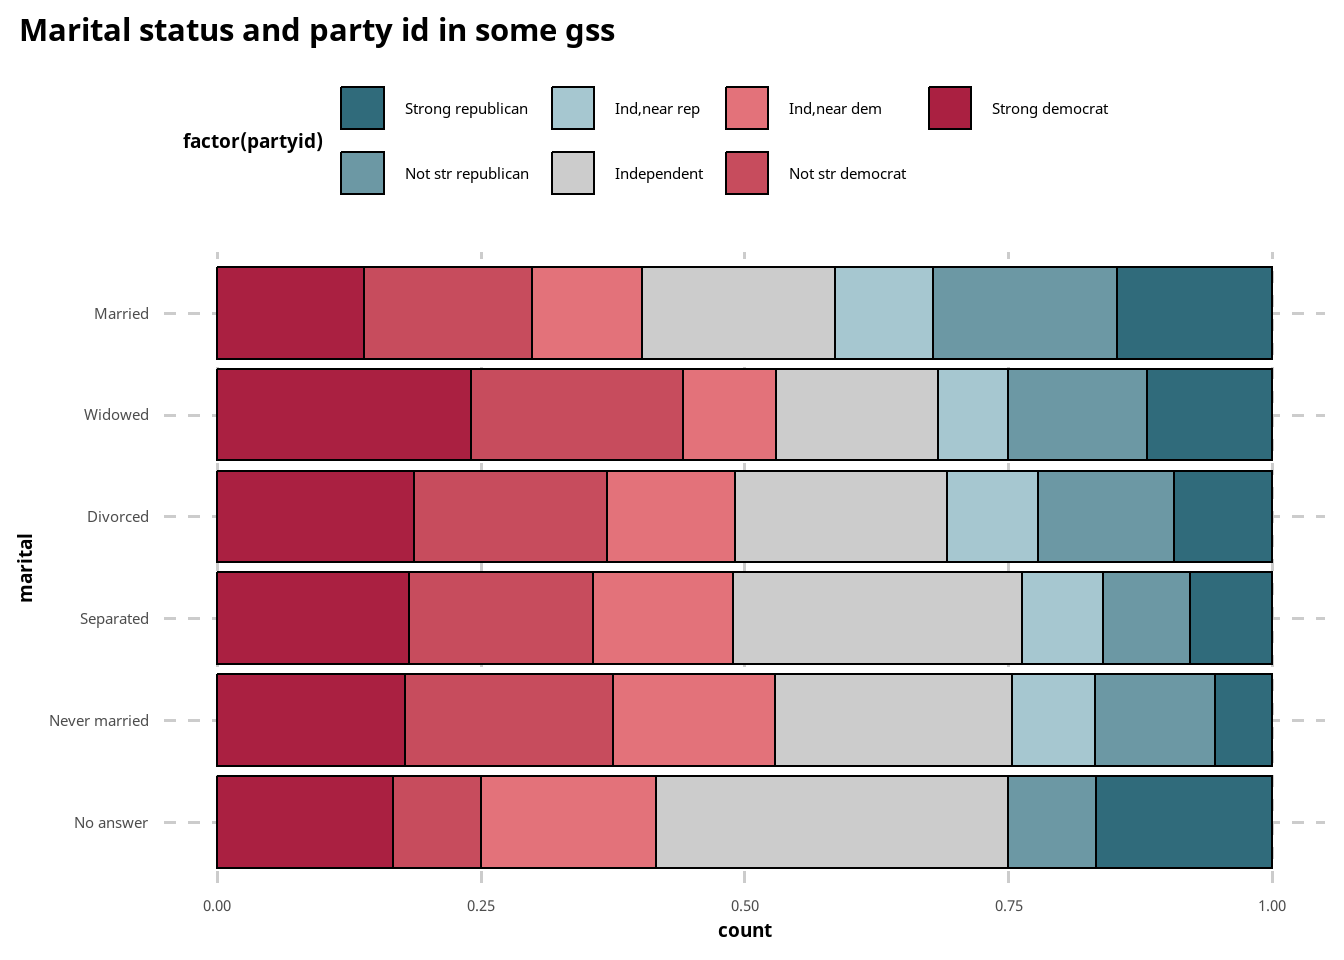
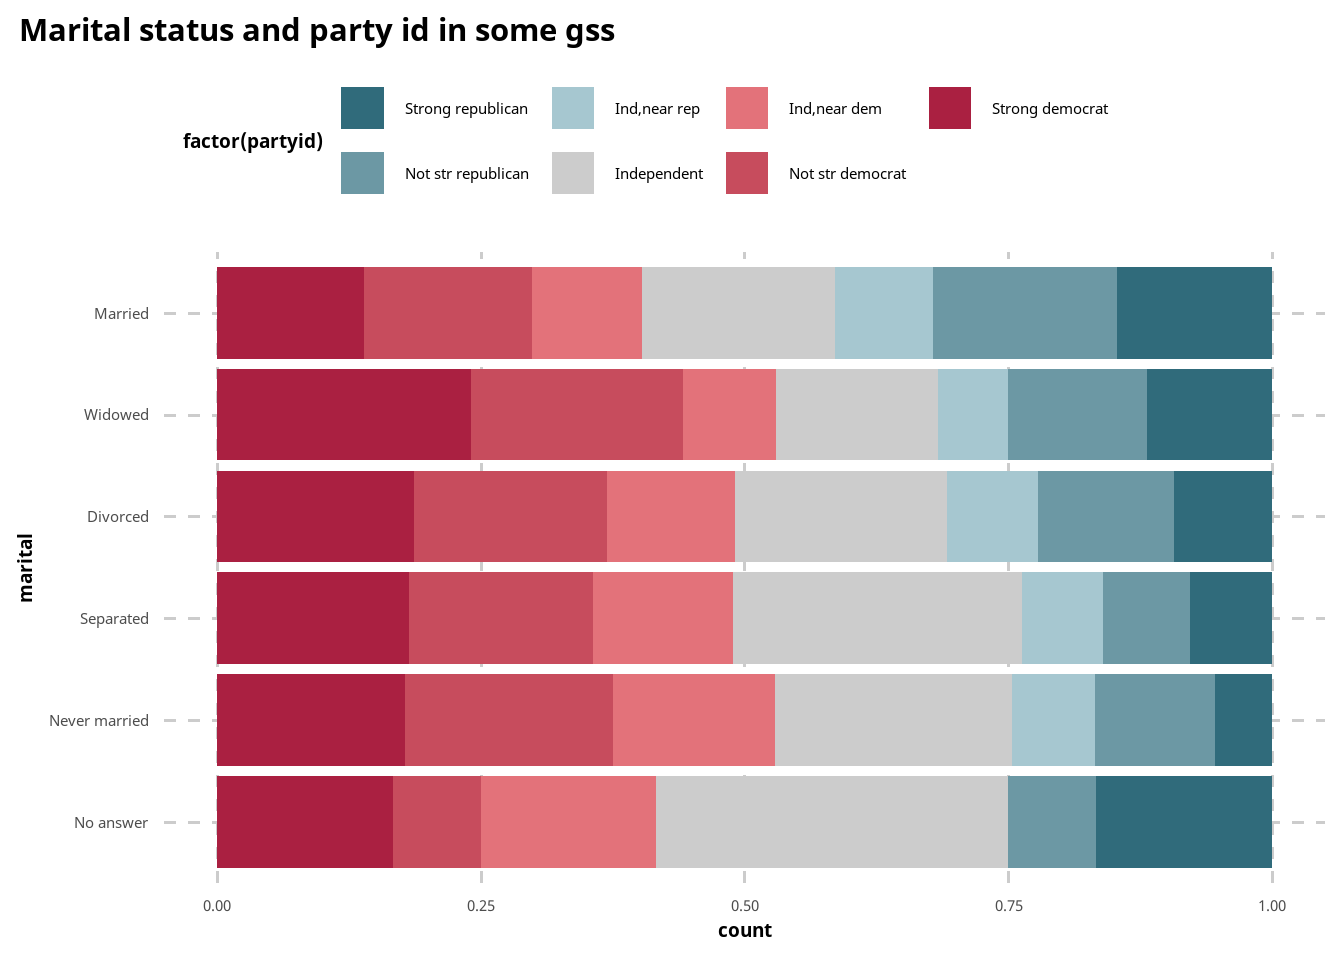
progress on theme

diff --git a/_book/theme.html b/_book/theme.html
@@ -238,29 +238,72 @@ pre > code.sourceCode > span > a:first-child::before { text-decoration: underlin
 <h2 data-number="4.1" class="anchored" data-anchor-id="the-function"><span class="header-section-number">4.1</span> The function</h2>
 <p>Put the function here and discuss it a bit.</p>
 <div class="cell">
-<div class="sourceCode cell-code" id="cb1"><pre class="sourceCode r code-with-copy"><code class="sourceCode r"><span id="cb1-1"><a href="#cb1-1" aria-hidden="true" tabindex="-1"></a>theme_cbu <span class="ot">&lt;-</span> <span class="cf">function</span>() {</span>
-<span id="cb1-2"><a href="#cb1-2" aria-hidden="true" tabindex="-1"></a>  <span class="fu">theme_minimal</span>(<span class="at">base_size =</span> <span class="dv">14</span>, <span class="at">base_family =</span> <span class="st">"Space Grotesk"</span>) <span class="sc">+</span></span>
-<span id="cb1-3"><a href="#cb1-3" aria-hidden="true" tabindex="-1"></a>    <span class="fu">theme</span>(<span class="at">panel.grid.minor =</span> <span class="fu">element_blank</span>(),</span>
-<span id="cb1-4"><a href="#cb1-4" aria-hidden="true" tabindex="-1"></a>          <span class="at">panel.grid.major =</span> <span class="fu">element_line</span>(<span class="at">linetype =</span> <span class="st">"dashed"</span>, <span class="at">color =</span> <span class="st">"grey80"</span>, <span class="at">linewidht =</span> .<span class="dv">5</span>),</span>
-<span id="cb1-5"><a href="#cb1-5" aria-hidden="true" tabindex="-1"></a>          <span class="at">plot.background =</span> <span class="fu">element_rect</span>(<span class="at">fill =</span> <span class="st">"white"</span>, <span class="at">color =</span> <span class="cn">NA</span>),</span>
-<span id="cb1-6"><a href="#cb1-6" aria-hidden="true" tabindex="-1"></a>          <span class="at">plot.title =</span> <span class="fu">element_text</span>(<span class="at">size =</span> <span class="fl">1.68</span><span class="sc">*</span><span class="dv">14</span>, <span class="at">face =</span> <span class="st">"bold"</span>, <span class="at">family =</span> <span class="st">"Space Grotesk"</span>),</span>
-<span id="cb1-7"><a href="#cb1-7" aria-hidden="true" tabindex="-1"></a>          <span class="at">plot.subtitle =</span> <span class="fu">element_text</span>(<span class="at">face =</span> <span class="st">"italic"</span>, <span class="at">family =</span> <span class="st">"Space Grotesk"</span>),</span>
-<span id="cb1-8"><a href="#cb1-8" aria-hidden="true" tabindex="-1"></a>          <span class="at">axis.title =</span> <span class="fu">element_text</span>(<span class="at">face =</span> <span class="st">"bold"</span>),</span>
-<span id="cb1-9"><a href="#cb1-9" aria-hidden="true" tabindex="-1"></a>          <span class="at">strip.text =</span> <span class="fu">element_text</span>(<span class="at">face =</span> <span class="st">"bold"</span>),</span>
-<span id="cb1-10"><a href="#cb1-10" aria-hidden="true" tabindex="-1"></a>          <span class="at">strip.background =</span> <span class="fu">element_rect</span>(<span class="at">fill =</span> <span class="cn">NA</span>, <span class="at">color =</span> <span class="cn">NA</span>),</span>
-<span id="cb1-11"><a href="#cb1-11" aria-hidden="true" tabindex="-1"></a>          <span class="at">plot.caption =</span> <span class="fu">element_text</span>(<span class="at">face =</span> <span class="st">"italic"</span>, <span class="at">family =</span> <span class="st">"Space Grotesk"</span>),</span>
-<span id="cb1-12"><a href="#cb1-12" aria-hidden="true" tabindex="-1"></a>          <span class="at">legend.title =</span> <span class="fu">element_text</span>(<span class="at">face =</span> <span class="st">"bold"</span>),</span>
-<span id="cb1-13"><a href="#cb1-13" aria-hidden="true" tabindex="-1"></a>          <span class="at">legend.position=</span><span class="st">'top'</span>, </span>
-<span id="cb1-14"><a href="#cb1-14" aria-hidden="true" tabindex="-1"></a>          <span class="at">legend.justification=</span><span class="st">'left'</span>,</span>
-<span id="cb1-15"><a href="#cb1-15" aria-hidden="true" tabindex="-1"></a>          <span class="at">legend.direction=</span><span class="st">'horizontal'</span>,</span>
-<span id="cb1-16"><a href="#cb1-16" aria-hidden="true" tabindex="-1"></a>          <span class="at">plot.title.position =</span> <span class="st">"plot"</span>)</span>
-<span id="cb1-17"><a href="#cb1-17" aria-hidden="true" tabindex="-1"></a>}</span></code><button title="Copy to Clipboard" class="code-copy-button"><i class="bi"></i></button></pre></div>
+<div class="sourceCode cell-code" id="cb1"><pre class="sourceCode r code-with-copy"><code class="sourceCode r"><span id="cb1-1"><a href="#cb1-1" aria-hidden="true" tabindex="-1"></a><span class="fu">library</span>(tidyverse)</span></code><button title="Copy to Clipboard" class="code-copy-button"><i class="bi"></i></button></pre></div>
+<div class="cell-output cell-output-stderr">
+<pre><code>── Attaching core tidyverse packages ──────────────────────── tidyverse 2.0.0 ──
+✔ dplyr     1.1.4     ✔ readr     2.1.5
+✔ forcats   1.0.0     ✔ stringr   1.5.1
+✔ ggplot2   3.5.1     ✔ tibble    3.2.1
+✔ lubridate 1.9.4     ✔ tidyr     1.3.1
+✔ purrr     1.0.4     
+── Conflicts ────────────────────────────────────────── tidyverse_conflicts() ──
+✖ dplyr::filter() masks stats::filter()
+✖ dplyr::lag()    masks stats::lag()
+ℹ Use the conflicted package (&lt;http://conflicted.r-lib.org/&gt;) to force all conflicts to become errors</code></pre>
+</div>
+<div class="sourceCode cell-code" id="cb3"><pre class="sourceCode r code-with-copy"><code class="sourceCode r"><span id="cb3-1"><a href="#cb3-1" aria-hidden="true" tabindex="-1"></a><span class="fu">library</span>(showtext)</span></code><button title="Copy to Clipboard" class="code-copy-button"><i class="bi"></i></button></pre></div>
+<div class="cell-output cell-output-stderr">
+<pre><code>Loading required package: sysfonts
+Loading required package: showtextdb</code></pre>
+</div>
+<div class="sourceCode cell-code" id="cb5"><pre class="sourceCode r code-with-copy"><code class="sourceCode r"><span id="cb5-1"><a href="#cb5-1" aria-hidden="true" tabindex="-1"></a><span class="fu">font_add_google</span>(<span class="st">"Open Sans"</span>)</span>
+<span id="cb5-2"><a href="#cb5-2" aria-hidden="true" tabindex="-1"></a><span class="fu">showtext_auto</span>()</span>
+<span id="cb5-3"><a href="#cb5-3" aria-hidden="true" tabindex="-1"></a>font <span class="ot">&lt;-</span> <span class="st">"Open Sans"</span></span>
+<span id="cb5-4"><a href="#cb5-4" aria-hidden="true" tabindex="-1"></a></span>
+<span id="cb5-5"><a href="#cb5-5" aria-hidden="true" tabindex="-1"></a>theme_cbu <span class="ot">&lt;-</span> <span class="cf">function</span>() {</span>
+<span id="cb5-6"><a href="#cb5-6" aria-hidden="true" tabindex="-1"></a>  <span class="fu">theme_minimal</span>(<span class="at">base_size =</span> <span class="dv">14</span>, <span class="at">base_family =</span> <span class="st">"Open Sans"</span>) <span class="sc">+</span></span>
+<span id="cb5-7"><a href="#cb5-7" aria-hidden="true" tabindex="-1"></a>    <span class="fu">theme</span>(<span class="at">panel.grid.minor =</span> <span class="fu">element_blank</span>(),</span>
+<span id="cb5-8"><a href="#cb5-8" aria-hidden="true" tabindex="-1"></a>          <span class="at">panel.grid.major =</span> <span class="fu">element_line</span>(<span class="at">linetype =</span> <span class="st">"dashed"</span>, <span class="at">color =</span> <span class="st">"grey80"</span>, <span class="at">linewidth =</span> .<span class="dv">5</span>),</span>
+<span id="cb5-9"><a href="#cb5-9" aria-hidden="true" tabindex="-1"></a>          <span class="at">plot.background =</span> <span class="fu">element_rect</span>(<span class="at">fill =</span> <span class="st">"white"</span>, <span class="at">color =</span> <span class="cn">NA</span>),</span>
+<span id="cb5-10"><a href="#cb5-10" aria-hidden="true" tabindex="-1"></a>          <span class="at">plot.title =</span> <span class="fu">element_text</span>(<span class="at">size =</span> <span class="fl">1.68</span><span class="sc">*</span><span class="dv">14</span>, <span class="at">face =</span> <span class="st">"bold"</span>, <span class="at">family =</span> <span class="st">"Space Grotesk"</span>),</span>
+<span id="cb5-11"><a href="#cb5-11" aria-hidden="true" tabindex="-1"></a>          <span class="at">plot.subtitle =</span> <span class="fu">element_text</span>(<span class="at">face =</span> <span class="st">"italic"</span>, <span class="at">family =</span> <span class="st">"Space Grotesk"</span>),</span>
+<span id="cb5-12"><a href="#cb5-12" aria-hidden="true" tabindex="-1"></a>          <span class="at">axis.title =</span> <span class="fu">element_text</span>(<span class="at">face =</span> <span class="st">"bold"</span>),</span>
+<span id="cb5-13"><a href="#cb5-13" aria-hidden="true" tabindex="-1"></a>          <span class="at">strip.text =</span> <span class="fu">element_text</span>(<span class="at">face =</span> <span class="st">"bold"</span>),</span>
+<span id="cb5-14"><a href="#cb5-14" aria-hidden="true" tabindex="-1"></a>          <span class="at">strip.background =</span> <span class="fu">element_rect</span>(<span class="at">fill =</span> <span class="cn">NA</span>, <span class="at">color =</span> <span class="cn">NA</span>),</span>
+<span id="cb5-15"><a href="#cb5-15" aria-hidden="true" tabindex="-1"></a>          <span class="at">plot.caption =</span> <span class="fu">element_text</span>(<span class="at">face =</span> <span class="st">"italic"</span>, <span class="at">family =</span> <span class="st">"Space Grotesk"</span>),</span>
+<span id="cb5-16"><a href="#cb5-16" aria-hidden="true" tabindex="-1"></a>          <span class="at">legend.title =</span> <span class="fu">element_text</span>(<span class="at">face =</span> <span class="st">"bold"</span>),</span>
+<span id="cb5-17"><a href="#cb5-17" aria-hidden="true" tabindex="-1"></a>          <span class="at">legend.position=</span><span class="st">'top'</span>, </span>
+<span id="cb5-18"><a href="#cb5-18" aria-hidden="true" tabindex="-1"></a>          <span class="at">legend.justification=</span><span class="st">'left'</span>,</span>
+<span id="cb5-19"><a href="#cb5-19" aria-hidden="true" tabindex="-1"></a>          <span class="at">legend.direction=</span><span class="st">'horizontal'</span>,</span>
+<span id="cb5-20"><a href="#cb5-20" aria-hidden="true" tabindex="-1"></a>          <span class="at">plot.title.position =</span> <span class="st">"plot"</span>)</span>
+<span id="cb5-21"><a href="#cb5-21" aria-hidden="true" tabindex="-1"></a>}</span></code><button title="Copy to Clipboard" class="code-copy-button"><i class="bi"></i></button></pre></div>
 </div>
 <p>The function is based on theme minimal. It uses <strong>XXX font</strong> with base size of <strong>XX</strong>. The main idea behind the theme function was to declutter the plot and take care of some basic layout &amp; text hierarchy (especially the legend which can be rendered a bit awkwardly by default).</p>
 </section>
 <section id="how-it-looks-like" class="level2" data-number="4.2">
 <h2 data-number="4.2" class="anchored" data-anchor-id="how-it-looks-like"><span class="header-section-number">4.2</span> How it looks like</h2>
 <p>Make a plot that shows each element with the spacing, font sizes etc.</p>
+<div class="cell">
+<div class="sourceCode cell-code" id="cb6"><pre class="sourceCode r code-with-copy"><code class="sourceCode r"><span id="cb6-1"><a href="#cb6-1" aria-hidden="true" tabindex="-1"></a>some_df <span class="ot">&lt;-</span> <span class="fu">data.frame</span>(</span>
+<span id="cb6-2"><a href="#cb6-2" aria-hidden="true" tabindex="-1"></a>    <span class="at">a =</span> <span class="fu">sample</span>(letters[<span class="dv">1</span><span class="sc">:</span><span class="dv">7</span>], <span class="dv">1000</span>, <span class="at">replace =</span> T)</span>
+<span id="cb6-3"><a href="#cb6-3" aria-hidden="true" tabindex="-1"></a>) <span class="sc">%&gt;%</span></span>
+<span id="cb6-4"><a href="#cb6-4" aria-hidden="true" tabindex="-1"></a><span class="fu">count</span>(a)</span>
+<span id="cb6-5"><a href="#cb6-5" aria-hidden="true" tabindex="-1"></a></span>
+<span id="cb6-6"><a href="#cb6-6" aria-hidden="true" tabindex="-1"></a>some_df <span class="sc">%&gt;%</span></span>
+<span id="cb6-7"><a href="#cb6-7" aria-hidden="true" tabindex="-1"></a><span class="fu">ggplot</span>(<span class="fu">aes</span>(<span class="at">x =</span> a, <span class="at">y =</span> n)) <span class="sc">+</span></span>
+<span id="cb6-8"><a href="#cb6-8" aria-hidden="true" tabindex="-1"></a><span class="fu">geom_col</span>(<span class="at">fill =</span> <span class="st">"#b96784"</span>, <span class="at">width =</span> .<span class="dv">6</span>) <span class="sc">+</span></span>
+<span id="cb6-9"><a href="#cb6-9" aria-hidden="true" tabindex="-1"></a><span class="fu">geom_text</span>(<span class="fu">aes</span>(<span class="at">label =</span> n), <span class="at">nudge_y =</span> <span class="dv">2</span>) <span class="sc">+</span></span>
+<span id="cb6-10"><a href="#cb6-10" aria-hidden="true" tabindex="-1"></a><span class="fu">labs</span>(<span class="at">x =</span> <span class="st">"letters"</span>, <span class="at">y =</span> <span class="st">"counts"</span>) <span class="sc">+</span></span>
+<span id="cb6-11"><a href="#cb6-11" aria-hidden="true" tabindex="-1"></a><span class="fu">coord_flip</span>() <span class="sc">+</span></span>
+<span id="cb6-12"><a href="#cb6-12" aria-hidden="true" tabindex="-1"></a><span class="fu">theme_cbu</span>()</span></code><button title="Copy to Clipboard" class="code-copy-button"><i class="bi"></i></button></pre></div>
+<div class="cell-output-display">
+<div>
+<figure class="figure">
+<p><img src="theme_files/figure-html/unnamed-chunk-2-1.png" class="img-fluid figure-img" width="672"></p>
+</figure>
+</div>
+</div>
+</div>
 </section>
 <section id="table-theming" class="level2" data-number="4.3">
 <h2 data-number="4.3" class="anchored" data-anchor-id="table-theming"><span class="header-section-number">4.3</span> Table theming</h2>

diff --git a/_book/chart_types.html b/_book/chart_types.html
@@ -30,7 +30,7 @@ ul.task-list li input[type="checkbox"] {
 <script src="site_libs/quarto-search/fuse.min.js"></script>
 <script src="site_libs/quarto-search/quarto-search.js"></script>
 <meta name="quarto:offset" content="./">
-<link href="./format_tutorial.html" rel="next">
+<link href="./tutorial.html" rel="next">
 <link href="./theme.html" rel="prev">
 <script src="site_libs/quarto-html/quarto.js"></script>
 <script src="site_libs/quarto-html/popper.min.js"></script>
@@ -144,8 +144,8 @@ ul.task-list li input[type="checkbox"] {
 </li>
         <li class="sidebar-item">
   <div class="sidebar-item-container"> 
-  <a href="./format_tutorial.html" class="sidebar-item-text sidebar-link">
- <span class="menu-text"><span class="chapter-number">6</span>&nbsp; <span class="chapter-title">format_tutorial.html</span></span></a>
+  <a href="./tutorial.html" class="sidebar-item-text sidebar-link">
+ <span class="menu-text"><span class="chapter-number">6</span>&nbsp; <span class="chapter-title">tutorial.html</span></span></a>
   </div>
 </li>
         <li class="sidebar-item">
@@ -182,6 +182,7 @@ ul.task-list li input[type="checkbox"] {
   <li><a href="#waffle-charts" id="toc-waffle-charts" class="nav-link" data-scroll-target="#waffle-charts"><span class="header-section-number">5.1.8</span> Waffle charts?</a></li>
   <li><a href="#maps" id="toc-maps" class="nav-link" data-scroll-target="#maps"><span class="header-section-number">5.1.9</span> Maps?</a></li>
   <li><a href="#pie-charts" id="toc-pie-charts" class="nav-link" data-scroll-target="#pie-charts"><span class="header-section-number">5.1.10</span> Pie charts</a></li>
+  <li><a href="#showing-statistical-models" id="toc-showing-statistical-models" class="nav-link" data-scroll-target="#showing-statistical-models"><span class="header-section-number">5.1.11</span> Showing statistical models</a></li>
   </ul></li>
   </ul>
 </nav>
@@ -293,6 +294,12 @@ ul.task-list li input[type="checkbox"] {
 <section id="pie-charts" class="level3" data-number="5.1.10">
 <h3 data-number="5.1.10" class="anchored" data-anchor-id="pie-charts"><span class="header-section-number">5.1.10</span> Pie charts</h3>
 <p>just no. Make a bar chart.</p>
+</section>
+<section id="showing-statistical-models" class="level3" data-number="5.1.11">
+<h3 data-number="5.1.11" class="anchored" data-anchor-id="showing-statistical-models"><span class="header-section-number">5.1.11</span> Showing statistical models</h3>
+<ul>
+<li>SEM models?</li>
+</ul>
 
 
 </section>
@@ -723,8 +730,8 @@ window.document.addEventListener("DOMContentLoaded", function (event) {
       </a>          
   </div>
   <div class="nav-page nav-page-next">
-      <a href="./format_tutorial.html" class="pagination-link" aria-label="format_tutorial.html">
-        <span class="nav-page-text"><span class="chapter-number">6</span>&nbsp; <span class="chapter-title">format_tutorial.html</span></span> <i class="bi bi-arrow-right-short"></i>
+      <a href="./tutorial.html" class="pagination-link" aria-label="tutorial.html">
+        <span class="nav-page-text"><span class="chapter-number">6</span>&nbsp; <span class="chapter-title">tutorial.html</span></span> <i class="bi bi-arrow-right-short"></i>
       </a>
   </div>
 </nav>

diff --git a/_book/color.html b/_book/color.html
@@ -412,7 +412,7 @@ pre > code.sourceCode > span > a:first-child::before { text-decoration: underlin
 <span id="cb13-2"><a href="#cb13-2" aria-hidden="true" tabindex="-1"></a></span>
 <span id="cb13-3"><a href="#cb13-3" aria-hidden="true" tabindex="-1"></a>gss_cat_filt <span class="sc">%&gt;%</span></span>
 <span id="cb13-4"><a href="#cb13-4" aria-hidden="true" tabindex="-1"></a>  <span class="fu">ggplot</span>(<span class="fu">aes</span>(<span class="at">x =</span> marital, <span class="at">fill =</span> <span class="fu">factor</span>(partyid))) <span class="sc">+</span></span>
-<span id="cb13-5"><a href="#cb13-5" aria-hidden="true" tabindex="-1"></a>  <span class="fu">geom_bar</span>(<span class="at">position =</span> <span class="st">"fill"</span>, <span class="at">color =</span> <span class="st">"black"</span>)<span class="sc">+</span></span>
+<span id="cb13-5"><a href="#cb13-5" aria-hidden="true" tabindex="-1"></a>  <span class="fu">geom_bar</span>(<span class="at">position =</span> <span class="st">"fill"</span>)<span class="sc">+</span></span>
 <span id="cb13-6"><a href="#cb13-6" aria-hidden="true" tabindex="-1"></a>  <span class="fu">scale_fill_manual</span>(<span class="at">values=</span> cbu_div[<span class="fu">c</span>(<span class="dv">2</span>,<span class="dv">4</span>,<span class="dv">6</span>,<span class="dv">8</span>,<span class="dv">11</span>,<span class="dv">13</span>,<span class="dv">15</span>)]) <span class="sc">+</span></span>
 <span id="cb13-7"><a href="#cb13-7" aria-hidden="true" tabindex="-1"></a>  <span class="fu">labs</span>(<span class="at">title =</span> <span class="st">"Marital status and party id in some gss"</span>) <span class="sc">+</span></span>
 <span id="cb13-8"><a href="#cb13-8" aria-hidden="true" tabindex="-1"></a>  <span class="fu">coord_flip</span>() <span class="sc">+</span></span>

diff --git a/_book/intro.html b/_book/intro.html
@@ -144,8 +144,8 @@ ul.task-list li input[type="checkbox"] {
 </li>
         <li class="sidebar-item">
   <div class="sidebar-item-container"> 
-  <a href="./format_tutorial.html" class="sidebar-item-text sidebar-link">
- <span class="menu-text"><span class="chapter-number">6</span>&nbsp; <span class="chapter-title">format_tutorial.html</span></span></a>
+  <a href="./tutorial.html" class="sidebar-item-text sidebar-link">
+ <span class="menu-text"><span class="chapter-number">6</span>&nbsp; <span class="chapter-title">tutorial.html</span></span></a>
   </div>
 </li>
         <li class="sidebar-item">
